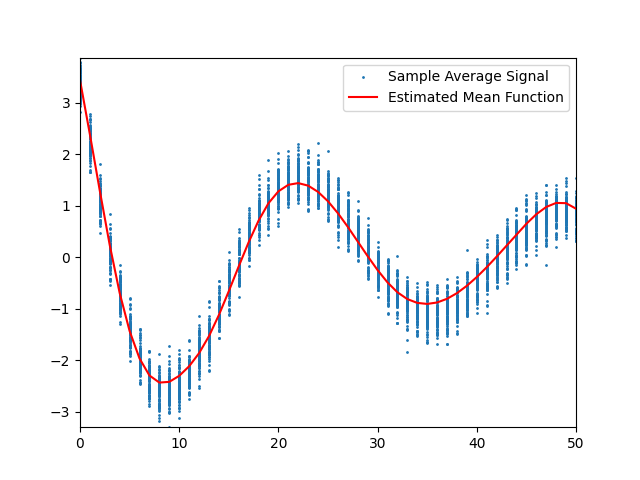
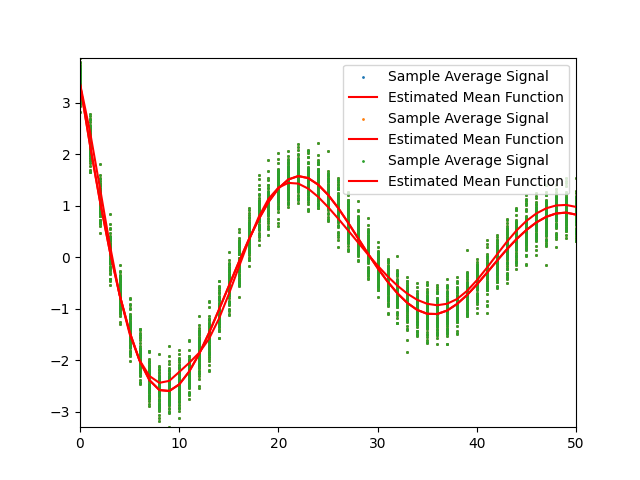
includes logic to output csv with performance comparisons across splines

Changed region(s): [[0.1875, 0.2188, 0.9062, 0.875], [0.125, 0.1875, 0.1562, 0.4062], [0.1562, 0.4062, 0.1875, 0.5938]]

diff --git a/Problem3/Problem3.py b/Problem3/Problem3.py
@@ -34,7 +34,8 @@ def cubic_spline_chart(
 
   plot_mean_function(X, y, cubic_spline_output, 'images', 'cubic_spline_mean_function.png')
 
-  return None
+  mse = compute_mse(X, y, cubic_spline_output)
+  return mse
 
 def b_spline_chart(
   data : pd.DataFrame
@@ -59,7 +60,8 @@ def b_spline_chart(
 
   plot_mean_function(X, y, b_spline_output, 'images', 'b_spline_mean_function.png')
 
-  return None
+  mse = compute_mse(X, y, b_spline_output)
+  return mse
 
 def smoothing_spline_chart(
   data : pd.DataFrame
@@ -84,7 +86,8 @@ def smoothing_spline_chart(
 
   plot_mean_function(X, y, smoothing_spline_output, 'images', 'smoothing_spline_mean_function.png')
 
-  return None
+  mse = compute_mse(X, y, smoothing_spline_output)
+  return mse
 
 def kernel_regression_spline_chart(
   data : pd.DataFrame
@@ -109,7 +112,8 @@ def kernel_regression_spline_chart(
 
   plot_mean_function(X, y, kernel_regression_spline_output, 'images', 'kernel_regression_spline_mean_function.png')
 
-  return None
+  mse = compute_mse(X, y, kernel_regression_spline_output)
+  return mse
 
 if __name__ == '__main__':
   working_directory = os.getcwd()
@@ -122,3 +126,15 @@ if __name__ == '__main__':
   b_spline_mse = b_spline_chart(data)
   smoothing_spline_mse = smoothing_spline_chart(data)
   kernel_regression_mse = kernel_regression_spline_chart(data)
+
+  spline_types = np.array(['cubic_spline', 'b_spline', 'smoothing_spline', 'kernel_regression']).astype(str).reshape(-1, 1)
+  spline_errors = np.array([
+    cubic_spline_mse,
+    b_spline_mse,
+    smoothing_spline_mse,
+    kernel_regression_mse
+  ]).astype(str).reshape(-1, 1)
+
+  spline_performance_comparison = pd.DataFrame(np.hstack((spline_types, spline_errors)), columns = ['Spline Type', 'Error'])
+  performance_path = os.path.join(working_directory, 'spline_performance_comparison.csv')
+  spline_performance_comparison.to_csv(performance_path, index = False)

diff --git a/Problem3/ComputeMSE.py b/Problem3/ComputeMSE.py
@@ -1,9 +1,11 @@
 import numpy as np
+from sklearn.metrics import mean_squared_error
+from sklearn.kernel_ridge import KernelRidge
 
 def compute_mse(
     x : np.ndarray,
     y : np.ndarray,
-    spline : callable
+    spline : object
 ) -> float:
     """
     compute_mse():
@@ -12,6 +14,11 @@ def compute_mse(
         y: array of y-coordinates of data points
         spline: spline object
     """
-    y_pred = spline(x)
-    mse = np.mean((y - y_pred)**2)
-    return mse
+    if isinstance(spline, KernelRidge):
+        y_pred = spline.predict(x.reshape(-1, 1)).flatten()
+    else:
+        y_pred = spline(x)
+
+    error = mean_squared_error(y, y_pred)
+
+    return error
